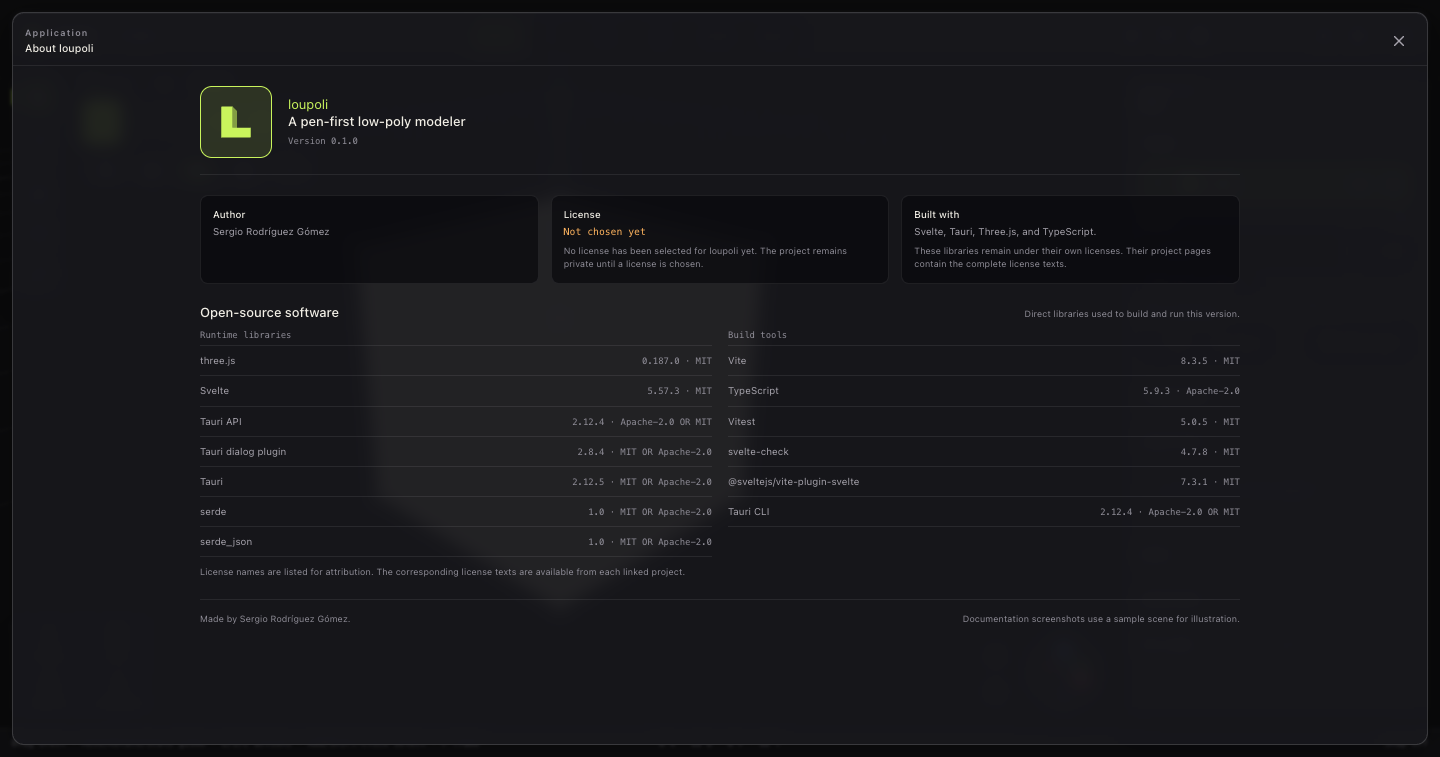
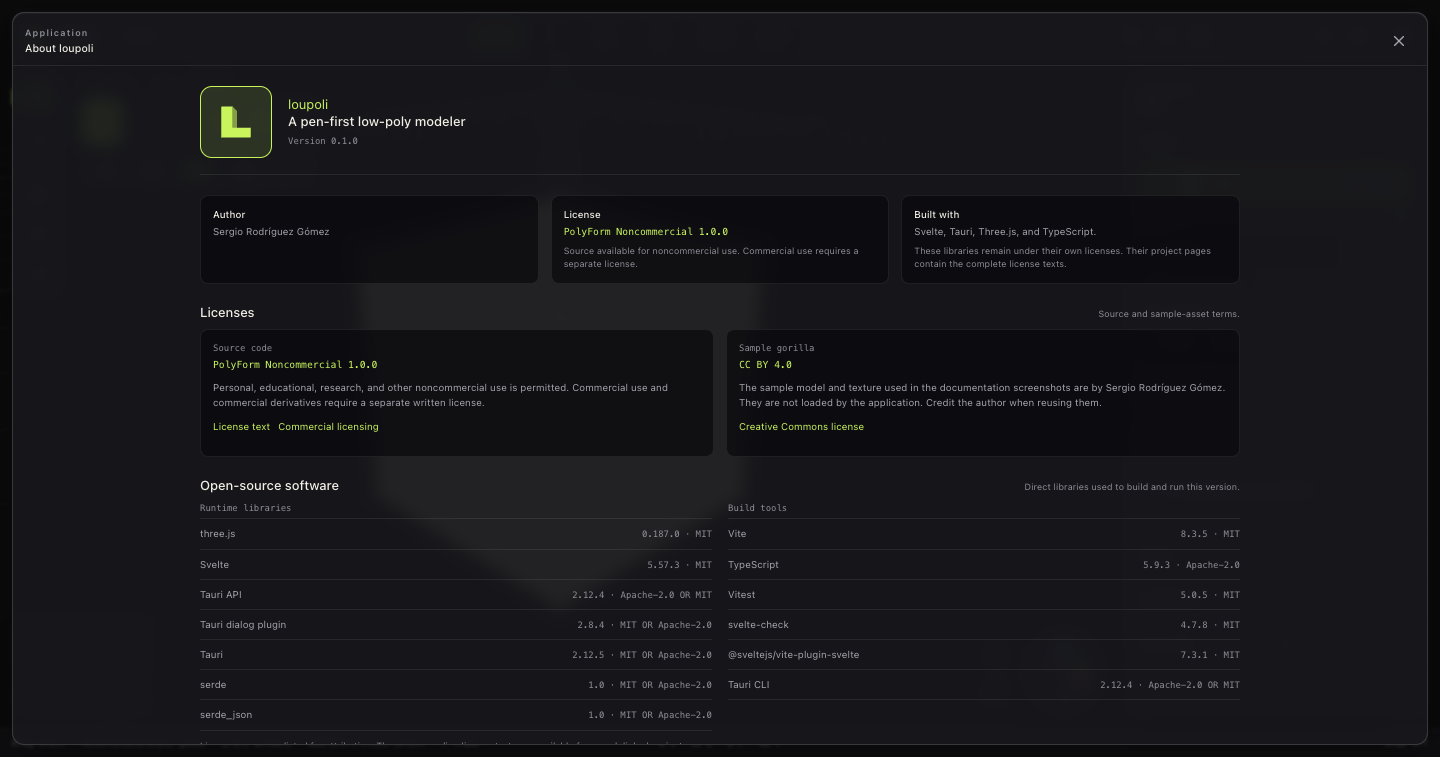
Add PolyForm and CC BY licensing
Adds the PolyForm Noncommercial license with a required notice, commercial licensing guidance, CC BY 4.0 attribution for the sample gorilla, package metadata, and an About dialog license section with source and sample-asset links.

diff --git a/src/lib/ui/Help/AboutModal.svelte b/src/lib/ui/Help/AboutModal.svelte
@@ -34,8 +34,8 @@
       </section>
       <section>
         <h4>License</h4>
-        <p class="license-state">{APP_ABOUT.licenseStatus}</p>
-        <p class="supporting">No license has been selected for loupoli yet. The project remains private until a license is chosen.</p>
+        <p class="license-state">{APP_ABOUT.licenseName}</p>
+        <p class="supporting">{APP_ABOUT.licenseStatus} for noncommercial use. Commercial use requires a separate license.</p>
       </section>
       <section>
         <h4>Built with</h4>
@@ -43,6 +43,32 @@
         <p class="supporting">These libraries remain under their own licenses. Their project pages contain the complete license texts.</p>
       </section>
     </div>
+
+    <section class="licensing" aria-labelledby="licensing-heading">
+      <div class="section-heading">
+        <h3 id="licensing-heading">Licenses</h3>
+        <p>Source and sample-asset terms.</p>
+      </div>
+      <div class="license-grid">
+        <article class="license-card">
+          <h4>Source code</h4>
+          <p class="license-name">{APP_ABOUT.licenseName}</p>
+          <p>Personal, educational, research, and other noncommercial use is permitted. Commercial use and commercial derivatives require a separate written license.</p>
+          <p class="license-links">
+            <a href={APP_ABOUT.licenseUrl} target="_blank" rel="noreferrer">License text</a>
+            <a href={APP_ABOUT.commercialUrl} target="_blank" rel="noreferrer">Commercial licensing</a>
+          </p>
+        </article>
+        <article class="license-card">
+          <h4>Sample gorilla</h4>
+          <p class="license-name">{APP_ABOUT.sampleLicenseName}</p>
+          <p>The sample model and texture used in the documentation screenshots are by {APP_ABOUT.author}. They are not loaded by the application. Credit the author when reusing them.</p>
+          <p class="license-links">
+            <a href={APP_ABOUT.sampleLicenseUrl} target="_blank" rel="noreferrer">Creative Commons license</a>
+          </p>
+        </article>
+      </div>
+    </section>
 
     <section class="software" aria-labelledby="open-source-heading">
       <div class="section-heading">
@@ -156,14 +182,65 @@
     line-height: var(--leading-body);
   }
 
-  .license-state {
-    color: var(--accent-warning) !important;
-    font-family: var(--font-mono);
-  }
-
   .supporting {
     color: var(--text-tertiary) !important;
     font-size: var(--text-2xs) !important;
+  }
+
+  .license-state {
+    color: var(--accent-primary) !important;
+    font-family: var(--font-mono);
+  }
+
+  .license-grid {
+    display: grid;
+    grid-template-columns: repeat(2, minmax(0, 1fr));
+    gap: var(--space-3);
+  }
+
+  .license-card {
+    padding: var(--space-3);
+    border: var(--hairline) solid var(--border-subtle);
+    border-radius: var(--radius-md);
+    background: var(--bg-input);
+  }
+
+  .license-card h4 {
+    color: var(--text-tertiary);
+    font-family: var(--font-mono);
+    font-size: var(--text-2xs);
+    font-weight: var(--weight-regular);
+  }
+
+  .license-card .license-name {
+    margin-top: var(--space-1);
+    color: var(--accent-primary);
+    font-family: var(--font-mono);
+    font-size: var(--text-xs);
+  }
+
+  .license-card p:not(.license-name):not(.license-links) {
+    margin-top: var(--space-1);
+    color: var(--text-secondary);
+    font-size: var(--text-xs);
+    line-height: var(--leading-body);
+  }
+
+  .license-links {
+    display: flex;
+    flex-wrap: wrap;
+    gap: var(--space-2);
+    margin-top: var(--space-2);
+  }
+
+  .license-links a {
+    color: var(--accent-primary);
+    font-size: var(--text-xs);
+    text-decoration: none;
+  }
+
+  .license-links a:hover {
+    text-decoration: underline;
   }
 
   .section-heading {
@@ -205,7 +282,7 @@
     border-bottom: var(--hairline) solid var(--border-subtle);
   }
 
-  a {
+  .library-group a {
     display: flex;
     align-items: baseline;
     justify-content: space-between;
@@ -216,7 +293,7 @@
     text-decoration: none;
   }
 
-  a:hover {
+  .library-group a:hover {
     color: var(--accent-primary);
   }
 
@@ -249,6 +326,7 @@
 
   @media (max-width: 760px) {
     .facts,
+    .license-grid,
     .groups {
       grid-template-columns: 1fr;
     }

diff --git a/src/lib/help/about.test.ts b/src/lib/help/about.test.ts
@@ -1,0 +1,17 @@
+import { describe, expect, it } from 'vitest';
+import { APP_ABOUT } from './about';
+
+describe('application licensing metadata', () => {
+  it('identifies the source license and commercial licensing path', () => {
+    expect(APP_ABOUT.licenseName).toBe('PolyForm Noncommercial 1.0.0');
+    expect(APP_ABOUT.licenseStatus).toBe('Source available');
+    expect(APP_ABOUT.licenseUrl).toContain('polyformproject.org');
+    expect(APP_ABOUT.commercialUrl).toContain('srsergiorodriguez');
+  });
+
+  it('credits the sample gorilla under CC BY 4.0', () => {
+    expect(APP_ABOUT.sampleLicenseName).toBe('CC BY 4.0');
+    expect(APP_ABOUT.sampleLicenseUrl).toContain('creativecommons.org');
+    expect(APP_ABOUT.author).toBe('Sergio Rodríguez Gómez');
+  });
+});

diff --git a/src/lib/help/about.ts b/src/lib/help/about.ts
@@ -12,7 +12,12 @@ export interface AboutLibrary {
 export const APP_ABOUT = {
   version: packageJson.version,
   author: 'Sergio Rodríguez Gómez',
-  licenseStatus: 'Not chosen yet',
+  licenseStatus: 'Source available',
+  licenseName: 'PolyForm Noncommercial 1.0.0',
+  licenseUrl: 'https://polyformproject.org/licenses/noncommercial/1.0.0',
+  commercialUrl: 'https://github.com/srsergiorodriguez',
+  sampleLicenseName: 'CC BY 4.0',
+  sampleLicenseUrl: 'https://creativecommons.org/licenses/by/4.0/',
   runtimeLibraries: [
     {
       name: 'three.js',

diff --git a/COMMERCIAL.md b/COMMERCIAL.md
@@ -1,0 +1,15 @@
+# Commercial licensing
+
+loupoli's source code is available under the **PolyForm Noncommercial License 1.0.0**. Personal, educational, research, and other noncommercial use is permitted under that license.
+
+Commercial use, including selling a product derived from loupoli or using it as part of a commercial service, requires a separate written commercial license.
+
+For commercial licensing inquiries, contact Sergio Rodríguez Gómez through [GitHub](https://github.com/srsergiorodriguez).
+
+## App Store edition
+
+The iPad App Store edition is distributed under Apple's Standard End User License Agreement. Buying that edition grants a license to use the app; it does not grant a commercial license to the source code.
+
+## What is not included
+
+The loupoli name, logo, and sample documentation assets have their own terms. See [ASSETS.md](ASSETS.md).

diff --git a/README.md b/README.md
@@ -392,6 +392,12 @@ Target baseline: **iPadOS 16.4+**. The Tauri app is structured for iOS, but the 
 
 ---
 
+## License
+
+loupoli's source is **source-available** under [PolyForm Noncommercial 1.0.0](https://polyformproject.org/licenses/noncommercial/1.0.0). It is not OSI open source, because the license does not permit commercial use. Personal, educational, research, and other noncommercial use is allowed. Commercial use and commercial derivatives require a separate written license; see [COMMERCIAL.md](COMMERCIAL.md).
+
+The sample gorilla model and texture used for documentation screenshots are licensed under [CC BY 4.0](https://creativecommons.org/licenses/by/4.0/), not under PolyForm. See [ASSETS.md](ASSETS.md) for attribution and the list of covered files. The sample is not loaded by the application.
+
 ## Planning and architecture
 
 | Document | Contents |

diff --git a/ASSETS.md b/ASSETS.md
@@ -1,0 +1,17 @@
+# Asset licenses
+
+## Sample gorilla
+
+The sample gorilla model and texture are used only in the documentation screenshots. They are not loaded by the application.
+
+- `gorillaModel/gorilla.obj`
+- `gorillaModel/gorilla.png` (recolored from the supplied texture)
+- `public/documentation/*.png` (screenshots showing the sample scene)
+
+Copyright 2026 Sergio Rodríguez Gómez.
+
+Licensed under the [Creative Commons Attribution 4.0 International License](https://creativecommons.org/licenses/by/4.0/) (CC BY 4.0).
+
+Attribution: **Sergio Rodríguez Gómez, loupoli sample gorilla, CC BY 4.0.**
+
+CC BY 4.0 permits commercial use. The noncommercial restriction in the PolyForm license applies to loupoli's source code, not to these sample assets.

diff --git a/gorillaModel/README.md b/gorillaModel/README.md
@@ -1,0 +1,11 @@
+# Sample gorilla
+
+This model and texture are used only to produce the documentation screenshots. loupoli does not load them at runtime.
+
+Copyright 2026 Sergio Rodríguez Gómez.
+
+The texture has been recolored from the supplied image.
+
+Licensed under [CC BY 4.0](https://creativecommons.org/licenses/by/4.0/).
+
+Attribution: **Sergio Rodríguez Gómez, loupoli sample gorilla, CC BY 4.0.**
